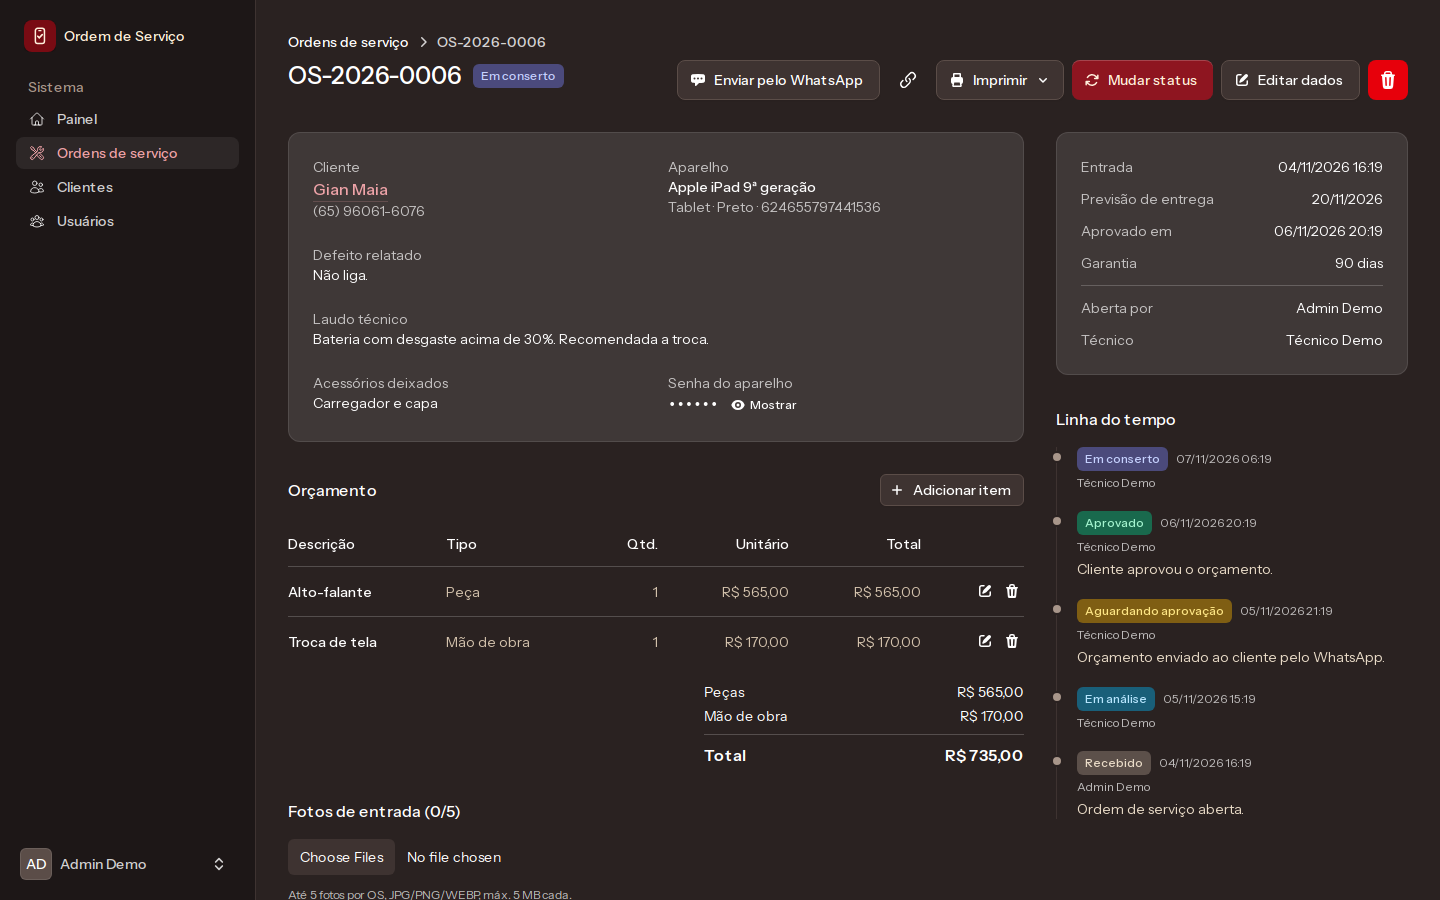
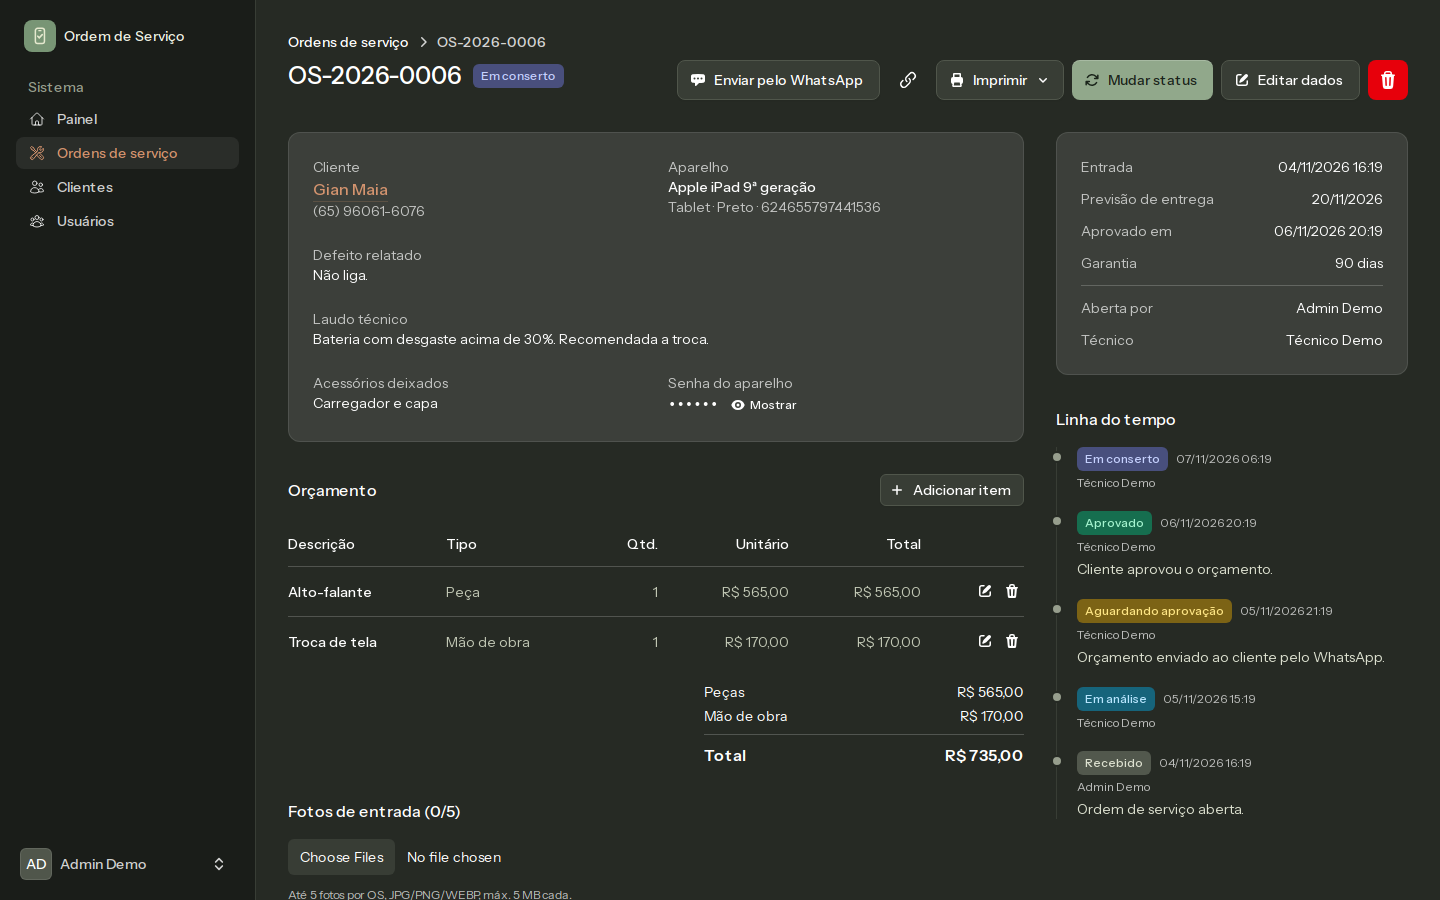
feat: paleta sálvia e terracota; barras do painel com a cor de cada status
- cores da marca: Muted Forest Sage #789575 e Pale Sage Ivory #E5E8CE
- terracota #C0764F como complementar quente em links e destaques
- cada barra do gráfico usa a mesma cor do badge do status
- favicons, PDFs e capturas do README atualizados

diff --git a/resources/css/app.css b/resources/css/app.css
@@ -11,43 +11,50 @@
 @theme {
     --font-sans: 'Instrument Sans', ui-sans-serif, system-ui, sans-serif, 'Apple Color Emoji', 'Segoe UI Emoji', 'Segoe UI Symbol', 'Noto Color Emoji';
 
-    /* Identidade: Deep Crimson Burgundy (#790B13) e Warm Ivory Cream (#FFF0DC). */
-    --color-brand-50: #fdf3f3;
-    --color-brand-100: #fbe4e5;
-    --color-brand-200: #f6cacd;
-    --color-brand-300: #eea3a8;
-    --color-brand-400: #e06e77;
-    --color-brand-500: #cc404b;
-    --color-brand-600: #a92330;
-    --color-brand-700: #8e1520;
-    --color-brand-800: #790b13;
-    --color-brand-900: #5e0910;
-    --color-brand-950: #36040a;
-    --color-ivory: #fff0dc;
+    /* Identidade: Muted Forest Sage (#789575), Pale Sage Ivory (#E5E8CE) e terracota (#C0764F) como complementar quente. */
+    --color-brand-50: #f5f6ec;
+    --color-brand-100: #e5e8ce;
+    --color-brand-200: #cdd5b8;
+    --color-brand-300: #adbd9f;
+    --color-brand-400: #91a88b;
+    --color-brand-500: #789575;
+    --color-brand-600: #5f7b5c;
+    --color-brand-700: #4b6349;
+    --color-brand-800: #3d503c;
+    --color-brand-900: #314031;
+    --color-brand-950: #1a241a;
+    --color-ivory: #e5e8ce;
 
-    /* Neutros quentes: o Flux usa a escala "zinc" em tudo, então ela puxa para o marfim. */
-    --color-zinc-50: #fffaf3;
-    --color-zinc-100: #fff0dc;
-    --color-zinc-200: #eadcc8;
-    --color-zinc-300: #d5c4ae;
-    --color-zinc-400: #a8968a;
-    --color-zinc-500: #7a6a62;
-    --color-zinc-600: #5b4d48;
-    --color-zinc-700: #3e3331;
-    --color-zinc-800: #2a2221;
-    --color-zinc-900: #1d1717;
-    --color-zinc-950: #120e0e;
+    --color-clay-300: #e2b497;
+    --color-clay-400: #d4946f;
+    --color-clay-500: #c0764f;
+    --color-clay-600: #a15f3d;
+    --color-clay-700: #834b31;
 
-    --color-accent: var(--color-brand-800);
-    --color-accent-content: var(--color-brand-800);
-    --color-accent-foreground: var(--color-ivory);
+    /* Neutros levemente esverdeados: o Flux usa a escala "zinc" em tudo. */
+    --color-zinc-50: #f8f9f3;
+    --color-zinc-100: #eef0e3;
+    --color-zinc-200: #dde1d0;
+    --color-zinc-300: #c3c9b6;
+    --color-zinc-400: #979e8d;
+    --color-zinc-500: #6d7466;
+    --color-zinc-600: #50564b;
+    --color-zinc-700: #383d35;
+    --color-zinc-800: #262a24;
+    --color-zinc-900: #1a1d19;
+    --color-zinc-950: #10120f;
+
+    /* Botões em sálvia; links e destaques em terracota. */
+    --color-accent: var(--color-brand-700);
+    --color-accent-content: var(--color-clay-600);
+    --color-accent-foreground: var(--color-brand-50);
 }
 
 @layer theme {
     .dark {
-        --color-accent: var(--color-brand-700);
-        --color-accent-content: var(--color-brand-300);
-        --color-accent-foreground: var(--color-ivory);
+        --color-accent: var(--color-brand-400);
+        --color-accent-content: var(--color-clay-400);
+        --color-accent-foreground: var(--color-brand-950);
     }
 }
 

diff --git a/resources/views/pdf/layout.blade.php b/resources/views/pdf/layout.blade.php
@@ -9,7 +9,7 @@
         * { font-family: "DejaVu Sans", sans-serif; }
         body { font-size: 10.5px; color: #27272a; line-height: 1.4; }
         h1 { font-size: 16px; margin: 0; }
-        h2 { font-size: 11px; text-transform: uppercase; letter-spacing: .5px; color: #790b13; margin: 16px 0 6px; border-bottom: 1px solid #eadcc8; padding-bottom: 3px; }
+        h2 { font-size: 11px; text-transform: uppercase; letter-spacing: .5px; color: #4b6349; margin: 16px 0 6px; border-bottom: 1px solid #dde1d0; padding-bottom: 3px; }
         table { width: 100%; border-collapse: collapse; }
         td, th { vertical-align: top; padding: 3px 4px; }
         .header td { padding: 0; }
@@ -18,7 +18,7 @@
         .number { font-size: 18px; font-weight: bold; }
         .label { color: #71717a; font-size: 9px; text-transform: uppercase; }
         .box { border: 1px solid #d4d4d8; padding: 6px 8px; }
-        .items th { background: #fff0dc; text-align: left; font-size: 9.5px; border-bottom: 1px solid #d4d4d8; }
+        .items th { background: #eef0e3; text-align: left; font-size: 9.5px; border-bottom: 1px solid #d4d4d8; }
         .items td { border-bottom: 1px solid #e4e4e7; }
         .items th.right { text-align: right; }
         .totals td { padding: 2px 4px; }
@@ -29,9 +29,10 @@
         .signatures td { width: 50%; text-align: center; padding: 0 20px; }
         .line { border-top: 1px solid #27272a; padding-top: 4px; }
         .footer { position: fixed; bottom: -10px; left: 0; right: 0; font-size: 8.5px; color: #a1a1aa; text-align: center; }
-        /* Identidade da marca: bordô #790B13 e marfim #FFF0DC. */
-        .header { border-bottom: 3px solid #790b13; padding-bottom: 8px; }
-        .header h1, .header .number { color: #790b13; }
+        /* Identidade da marca: sálvia #789575, marfim #E5E8CE e terracota #C0764F. */
+        .header { border-bottom: 3px solid #789575; padding-bottom: 8px; }
+        .header h1 { color: #4b6349; }
+        .header .number { color: #a15f3d; }
     </style>
 </head>
 <body>

diff --git a/resources/views/livewire/dashboard.blade.php b/resources/views/livewire/dashboard.blade.php
@@ -65,6 +65,21 @@
 
             <flux:card>
                 <ul class="flex flex-col gap-3" aria-label="Quantidade de OS em aberto por status">
+                    @php
+                        // Mesma cor do badge de cada status. Classes literais para o Tailwind enxergar.
+                        $barColors = [
+                            'zinc' => 'bg-zinc-400 dark:bg-zinc-400',
+                            'sky' => 'bg-sky-500 dark:bg-sky-400',
+                            'amber' => 'bg-amber-500 dark:bg-amber-400',
+                            'emerald' => 'bg-emerald-500 dark:bg-emerald-400',
+                            'rose' => 'bg-rose-500 dark:bg-rose-400',
+                            'orange' => 'bg-orange-500 dark:bg-orange-400',
+                            'indigo' => 'bg-indigo-500 dark:bg-indigo-400',
+                            'lime' => 'bg-lime-500 dark:bg-lime-400',
+                            'green' => 'bg-green-600 dark:bg-green-400',
+                            'red' => 'bg-red-500 dark:bg-red-400',
+                        ];
+                    @endphp
                     @foreach ($byStatus as $row)
                         <li>
                             <a
@@ -77,7 +92,7 @@
                                 <span class="h-2.5 w-full">
                                     @if ($row['count'] > 0)
                                         <span
-                                            class="block h-full rounded-e bg-brand-800 transition-opacity group-hover:opacity-80 dark:bg-brand-400"
+                                            class="block h-full rounded-e transition-opacity group-hover:opacity-80 {{ $barColors[$row['status']->color()] }}"
                                             style="width: {{ max(2, round($row['count'] / $maxCount * 100)) }}%"
                                         ></span>
                                     @endif

diff --git a/resources/views/layouts/auth/split.blade.php b/resources/views/layouts/auth/split.blade.php
@@ -3,10 +3,10 @@
     <head>
         @include('partials.head')
     </head>
-    <body class="min-h-screen bg-zinc-50 antialiased dark:bg-zinc-950 dark:bg-[radial-gradient(ellipse_at_top,_rgb(121_11_19_/_0.35),_transparent_60%)]">
+    <body class="min-h-screen bg-zinc-50 antialiased dark:bg-zinc-950 dark:bg-[radial-gradient(ellipse_at_top,_rgb(120_149_117_/_0.28),_transparent_55%),radial-gradient(ellipse_at_bottom_right,_rgb(192_118_79_/_0.14),_transparent_50%)]">
         <div class="relative grid h-dvh flex-col items-center justify-center px-8 sm:px-0 lg:max-w-none lg:grid-cols-2 lg:px-0">
             <div class="bg-muted relative hidden h-full flex-col p-10 text-white lg:flex dark:border-e dark:border-neutral-800">
-                <div class="absolute inset-0 bg-brand-900"></div>
+                <div class="absolute inset-0 bg-brand-800"></div>
                 <a href="{{ route('home') }}" class="relative z-20 flex items-center text-lg font-medium" wire:navigate>
                     <span class="flex h-10 w-10 items-center justify-center rounded-md">
                         <x-brand-mark size="size-8" class="me-2" />

diff --git a/resources/views/layouts/auth/card.blade.php b/resources/views/layouts/auth/card.blade.php
@@ -3,7 +3,7 @@
     <head>
         @include('partials.head')
     </head>
-    <body class="min-h-screen bg-neutral-100 antialiased dark:bg-zinc-950 dark:bg-[radial-gradient(ellipse_at_top,_rgb(121_11_19_/_0.35),_transparent_60%)]">
+    <body class="min-h-screen bg-neutral-100 antialiased dark:bg-zinc-950 dark:bg-[radial-gradient(ellipse_at_top,_rgb(120_149_117_/_0.28),_transparent_55%),radial-gradient(ellipse_at_bottom_right,_rgb(192_118_79_/_0.14),_transparent_50%)]">
         <div class="bg-muted flex min-h-svh flex-col items-center justify-center gap-6 p-6 md:p-10">
             <div class="flex w-full max-w-md flex-col gap-6">
                 <a href="{{ route('home') }}" class="flex flex-col items-center gap-2 font-medium" wire:navigate>

diff --git a/resources/views/layouts/auth/simple.blade.php b/resources/views/layouts/auth/simple.blade.php
@@ -3,7 +3,7 @@
     <head>
         @include('partials.head')
     </head>
-    <body class="min-h-screen bg-zinc-50 antialiased dark:bg-zinc-950 dark:bg-[radial-gradient(ellipse_at_top,_rgb(121_11_19_/_0.35),_transparent_60%)]">
+    <body class="min-h-screen bg-zinc-50 antialiased dark:bg-zinc-950 dark:bg-[radial-gradient(ellipse_at_top,_rgb(120_149_117_/_0.28),_transparent_55%),radial-gradient(ellipse_at_bottom_right,_rgb(192_118_79_/_0.14),_transparent_50%)]">
         <div class="flex min-h-svh flex-col items-center justify-center gap-6 p-6 md:p-10">
             <div class="flex w-full max-w-sm flex-col gap-2">
                 <a href="{{ route('home') }}" class="flex flex-col items-center gap-2 font-medium" wire:navigate>

diff --git a/resources/views/components/brand-mark.blade.php b/resources/views/components/brand-mark.blade.php
@@ -1,5 +1,5 @@
 @props(['size' => 'size-8'])
-{{-- Logo completo: quadrado bordô com o ícone em marfim. Mesmas cores nos modos claro e escuro. --}}
-<span {{ $attributes->class([$size, 'inline-flex shrink-0 items-center justify-center rounded-lg bg-brand-800 text-ivory shadow-sm ring-1 ring-black/10']) }}>
+{{-- Logo completo: quadrado sálvia com o ícone em marfim. Mesmas cores nos modos claro e escuro. --}}
+<span {{ $attributes->class([$size, 'inline-flex shrink-0 items-center justify-center rounded-lg bg-brand-500 text-ivory shadow-sm ring-1 ring-black/10']) }}>
     <x-app-logo-icon class="size-[62%]" />
 </span>
